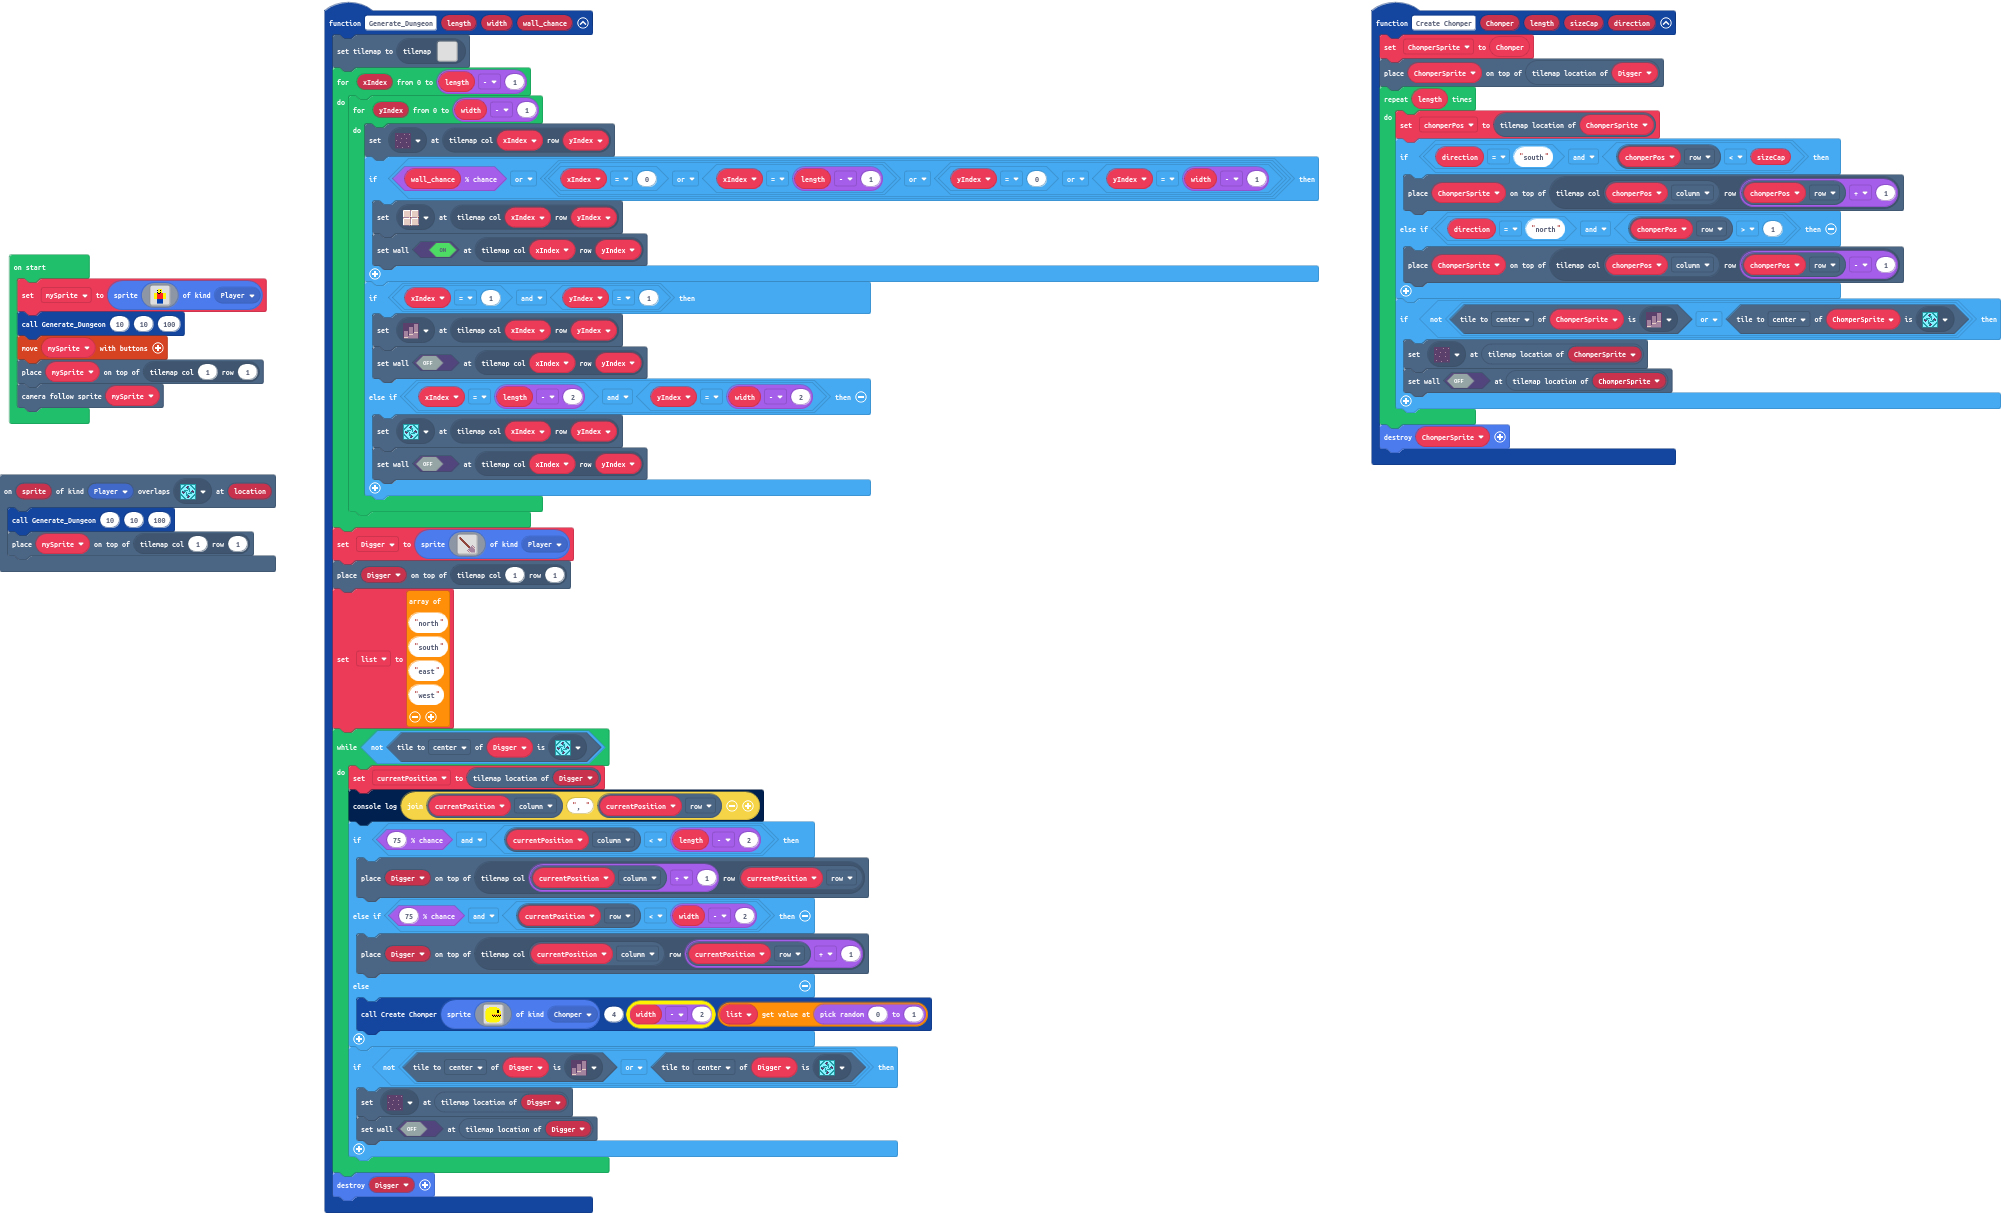
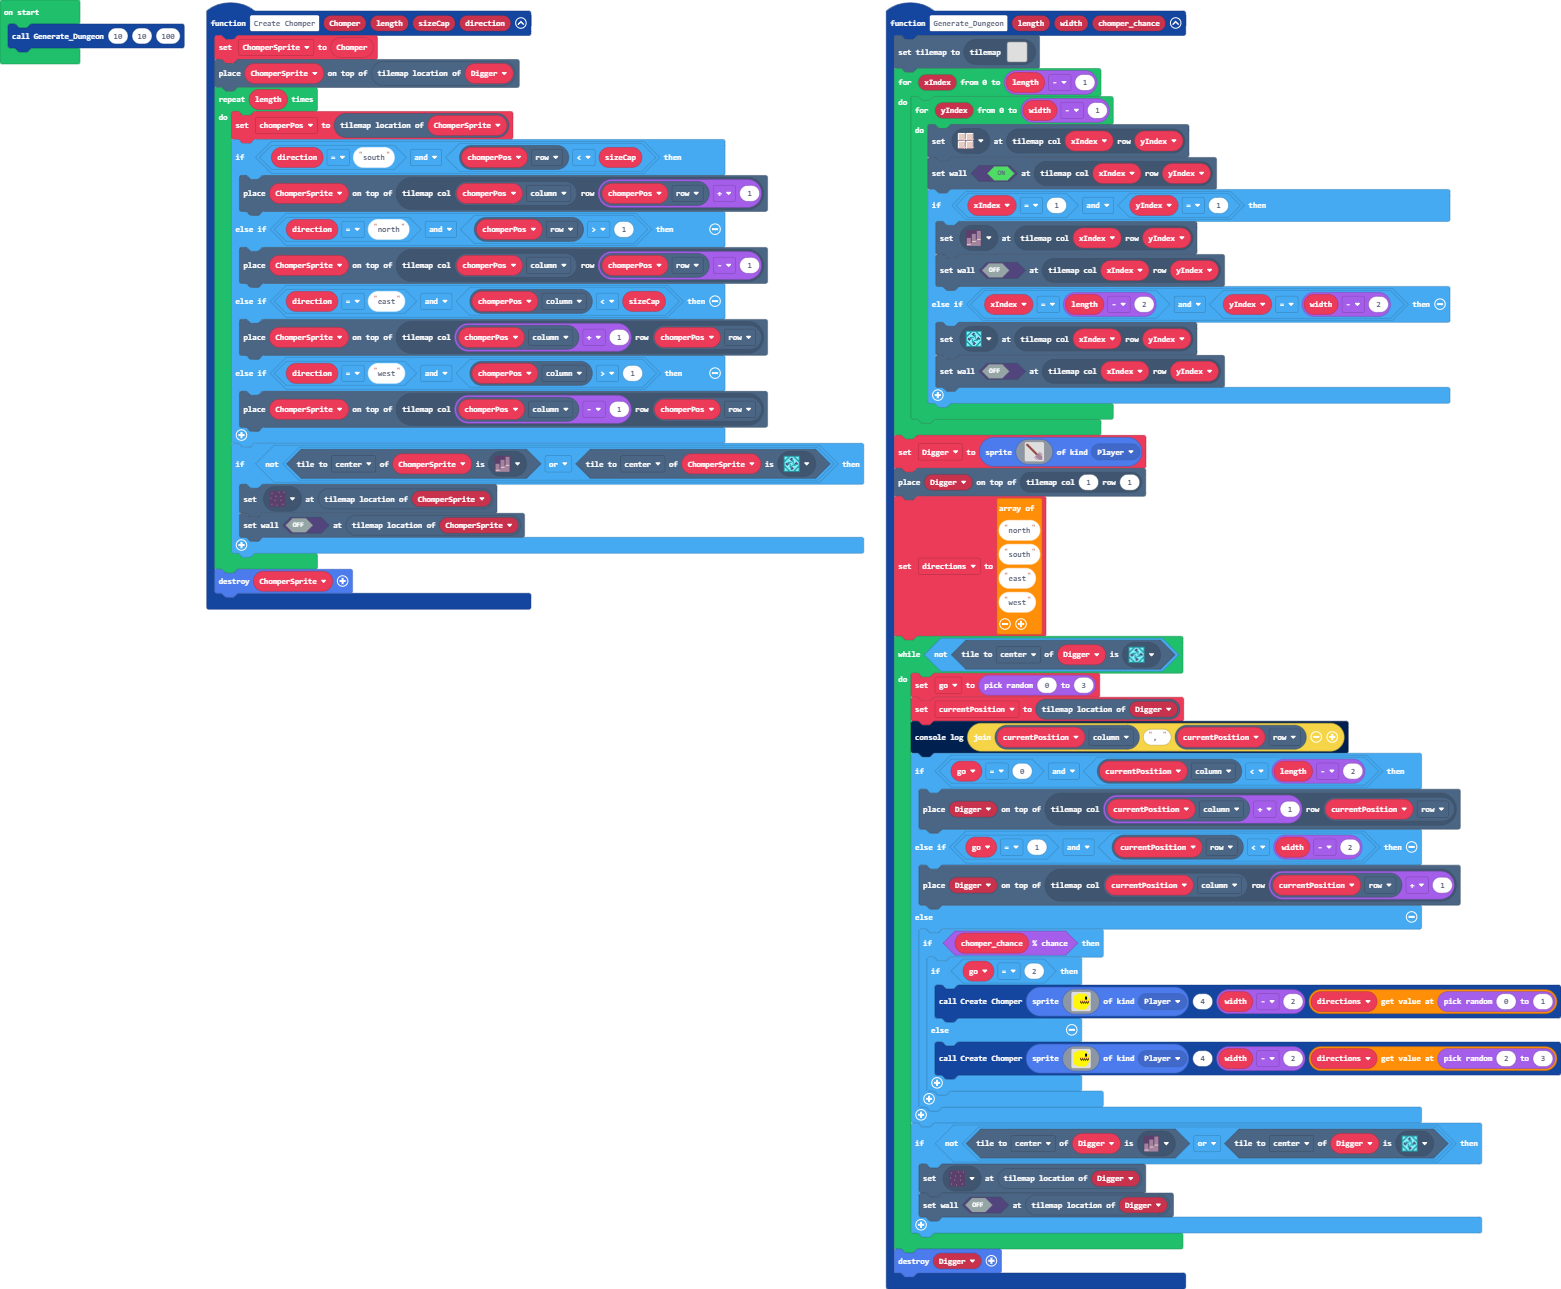
Redid code! (Chomper is now determined by chance)

diff --git a/main.ts b/main.ts
@@ -1,15 +1,9 @@
-namespace SpriteKind {
-    export const Chomper = SpriteKind.create()
-}
-function Generate_Dungeon (length: number, width: number, wall_chance: number) {
+function Generate_Dungeon (length: number, width: number, chomper_chance: number) {
     tiles.setCurrentTilemap(tilemap`level1`)
     for (let xIndex = 0; xIndex <= length - 1; xIndex++) {
         for (let yIndex = 0; yIndex <= width - 1; yIndex++) {
-            tiles.setTileAt(tiles.getTileLocation(xIndex, yIndex), sprites.dungeon.darkGroundCenter)
-            if (Math.percentChance(wall_chance) || (xIndex == 0 || xIndex == length - 1 || (yIndex == 0 || yIndex == width - 1))) {
-                tiles.setTileAt(tiles.getTileLocation(xIndex, yIndex), sprites.dungeon.floorLight0)
-                tiles.setWallAt(tiles.getTileLocation(xIndex, yIndex), true)
-            }
+            tiles.setTileAt(tiles.getTileLocation(xIndex, yIndex), sprites.dungeon.floorLight0)
+            tiles.setWallAt(tiles.getTileLocation(xIndex, yIndex), true)
             if (xIndex == 1 && yIndex == 1) {
                 tiles.setTileAt(tiles.getTileLocation(xIndex, yIndex), sprites.dungeon.stairLarge)
                 tiles.setWallAt(tiles.getTileLocation(xIndex, yIndex), false)
@@ -21,21 +15,28 @@ function Generate_Dungeon (length: number, width: number, wall_chance: number) {
     }
     Digger = sprites.create(assets.image`shovel`, SpriteKind.Player)
     tiles.placeOnTile(Digger, tiles.getTileLocation(1, 1))
-    list = [
+    directions = [
     "north",
     "south",
     "east",
     "west"
     ]
     while (!(Digger.tileKindAt(TileDirection.Center, sprites.dungeon.collectibleInsignia))) {
+        go = randint(0, 3)
         currentPosition = Digger.tilemapLocation()
         console.log("" + currentPosition.column + ", " + currentPosition.row)
-        if (Math.percentChance(75) && currentPosition.column < length - 2) {
+        if (go == 0 && currentPosition.column < length - 2) {
             tiles.placeOnTile(Digger, tiles.getTileLocation(currentPosition.column + 1, currentPosition.row))
-        } else if (Math.percentChance(75) && currentPosition.row < width - 2) {
+        } else if (go == 1 && currentPosition.row < width - 2) {
             tiles.placeOnTile(Digger, tiles.getTileLocation(currentPosition.column, currentPosition.row + 1))
         } else {
-            Create_Chomper(sprites.create(assets.image`Chomper`, SpriteKind.Chomper), 4, width - 2, list[randint(0, 1)])
+            if (Math.percentChance(chomper_chance)) {
+                if (go == 2) {
+                    Create_Chomper(sprites.create(assets.image`Chomper`, SpriteKind.Player), 4, width - 2, directions[randint(0, 1)])
+                } else {
+                    Create_Chomper(sprites.create(assets.image`Chomper`, SpriteKind.Player), 4, width - 2, directions[randint(2, 3)])
+                }
+            }
         }
         if (!(Digger.tileKindAt(TileDirection.Center, sprites.dungeon.stairLarge) || Digger.tileKindAt(TileDirection.Center, sprites.dungeon.collectibleInsignia))) {
             tiles.setTileAt(Digger.tilemapLocation(), sprites.dungeon.darkGroundCenter)
@@ -53,6 +54,10 @@ function Create_Chomper (Chomper: Sprite, length: number, sizeCap: number, direc
             tiles.placeOnTile(ChomperSprite, tiles.getTileLocation(chomperPos.column, chomperPos.row + 1))
         } else if (direction == "north" && chomperPos.row > 1) {
             tiles.placeOnTile(ChomperSprite, tiles.getTileLocation(chomperPos.column, chomperPos.row - 1))
+        } else if (direction == "east" && chomperPos.column < sizeCap) {
+            tiles.placeOnTile(ChomperSprite, tiles.getTileLocation(chomperPos.column + 1, chomperPos.row))
+        } else if (direction == "west" && chomperPos.column > 1) {
+            tiles.placeOnTile(ChomperSprite, tiles.getTileLocation(chomperPos.column - 1, chomperPos.row))
         }
         if (!(ChomperSprite.tileKindAt(TileDirection.Center, sprites.dungeon.stairLarge) || ChomperSprite.tileKindAt(TileDirection.Center, sprites.dungeon.collectibleInsignia))) {
             tiles.setTileAt(ChomperSprite.tilemapLocation(), sprites.dungeon.darkGroundCenter)
@@ -61,18 +66,10 @@ function Create_Chomper (Chomper: Sprite, length: number, sizeCap: number, direc
     }
     sprites.destroy(ChomperSprite)
 }
-scene.onOverlapTile(SpriteKind.Player, sprites.dungeon.collectibleInsignia, function (sprite, location) {
-    Generate_Dungeon(10, 10, 100)
-    tiles.placeOnTile(mySprite, tiles.getTileLocation(1, 1))
-})
 let chomperPos: tiles.Location = null
 let ChomperSprite: Sprite = null
 let currentPosition: tiles.Location = null
-let list: string[] = []
+let go = 0
+let directions: string[] = []
 let Digger: Sprite = null
-let mySprite: Sprite = null
-mySprite = sprites.create(assets.image`noob`, SpriteKind.Player)
 Generate_Dungeon(10, 10, 100)
-controller.moveSprite(mySprite)
-tiles.placeOnTile(mySprite, tiles.getTileLocation(1, 1))
-scene.cameraFollowSprite(mySprite)
